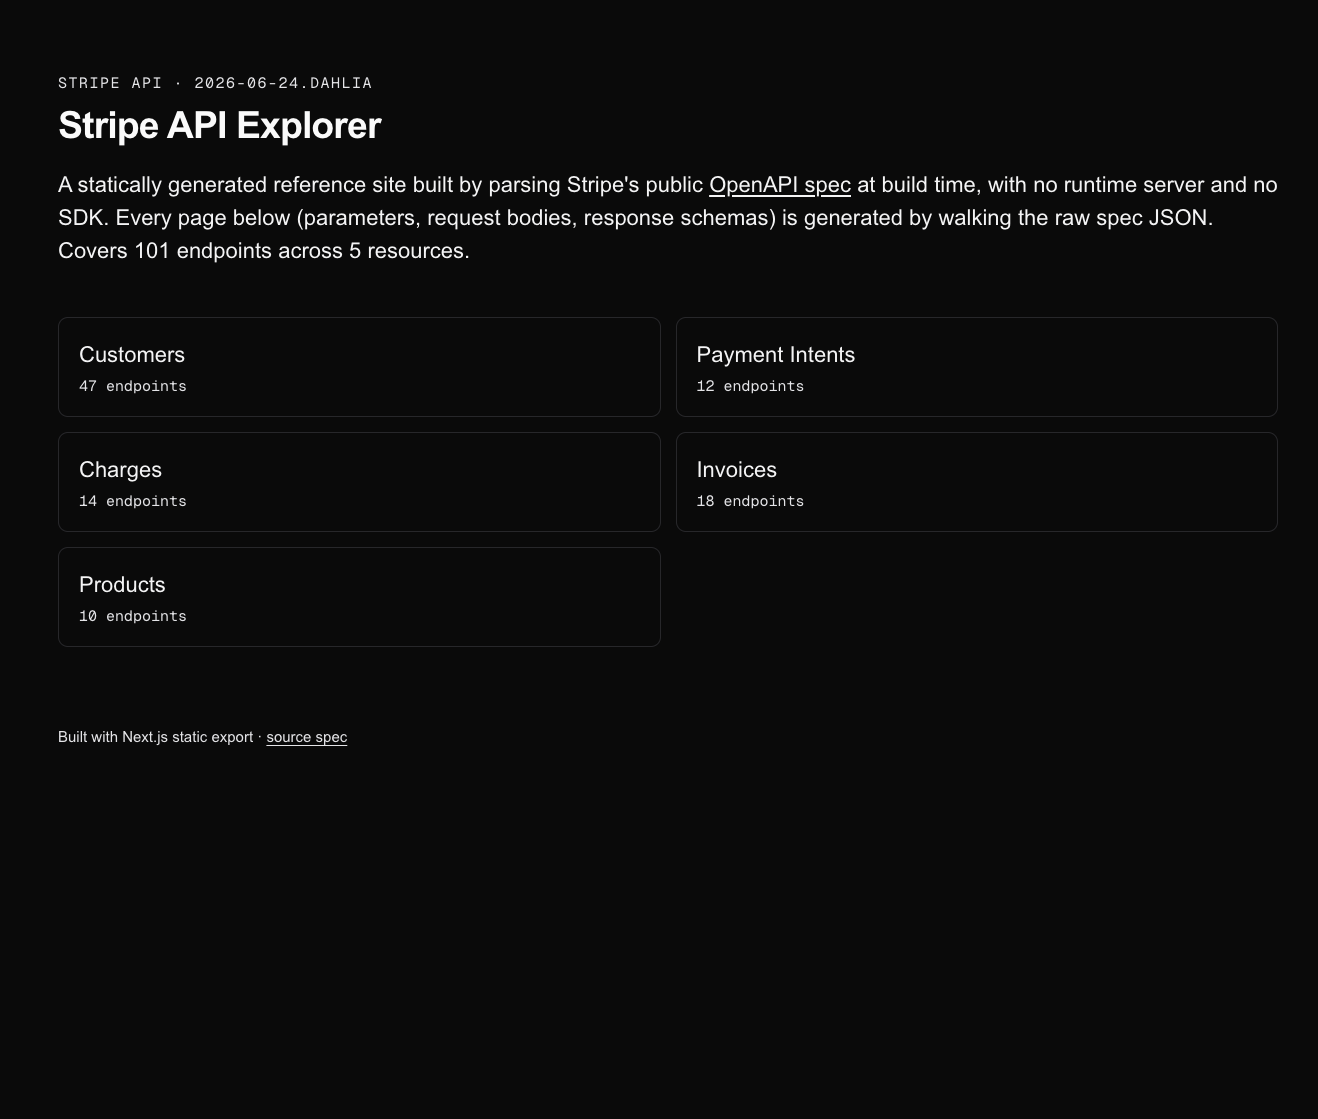
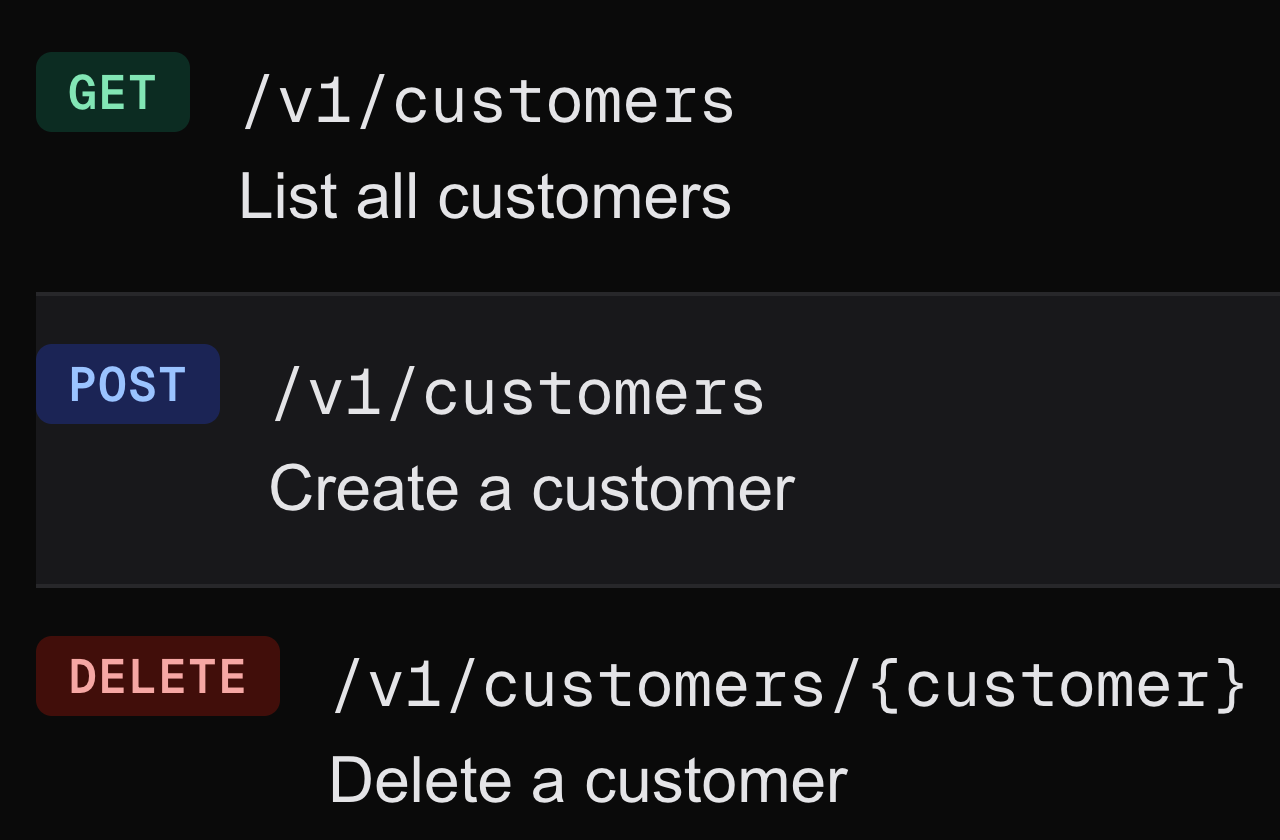
mvp

diff --git a/static/css/style.css b/static/css/style.css
@@ -4,8 +4,8 @@
   --color-text: #1a1a1a;
   --color-text-secondary: #666666;
   --color-border: #e0e0e0;
-  --color-link: #0066cc;
-  --color-link-hover: #0052a3;
+  --color-link: #073b66;
+  --color-link-hover: #03204b;
   --color-tile-bg: #f9f9f9;
 
   --max-width-grid: 1200px;
@@ -51,10 +51,15 @@ a:hover {
 .header {
   background: var(--color-bg);
   border-bottom: 1px solid var(--color-border);
-  padding: 20px 0;
+  padding: 20px 0 0 0;
   position: sticky;
   top: 0;
   z-index: 100;
+}
+
+.header .logo a {
+    font-size: 2rem;
+    padding-left: 0;
 }
 
 .header-content {
@@ -66,6 +71,10 @@ a:hover {
   align-items: center;
 }
 
+.header a {
+  padding: 1rem 2rem;
+  font-size: 1rem;
+}
 .logo {
   font-size: 18px;
   font-weight: 600;
@@ -81,7 +90,7 @@ a:hover {
 
 nav {
   display: flex;
-  gap: 30px;
+  gap: 10px;
 }
 
 nav a {

diff --git a/content/posts/welcome.md b/content/posts/welcome.md
@@ -1,11 +1,30 @@
 +++
 date = '2026-07-03T17:51:04-07:00'
 draft = false
-title = 'Welcome'
-summary = "First post — what this blog is for."
+title = 'Information architecture is the foundation of good documentation'
+summary = ""
 +++
 
-I'm Kapunahele, a docs engineer and technical writer. This is where I'll write about developer documentation,
-open-source contribution, CI/CD, OpenAPI, and working with AI-powered tools like Claude Code.
+Good docs begin with architecture, that is, the invisible structure that determines whether someone can find what they need in the first place.
 
-More soon.
+I've spent over a decade writing technical documentation, for startups, Angular, and Bazel. The pattern holds everywhere: the best-written page in the world is useless if no one can find it, and a merely adequate page becomes (gasp) valuable if it sits exactly where a reader expects it to.
+
+## Discoverability is a design problem, not a search problem
+
+Teams often try to solve discoverability with better search. Search helps, but it's a patch over a deeper issue. The real fix is upstream: decide on your categories, your naming conventions, your hierarchy, and stick to them. If you have to pivot later, that's ok, just be clear and intentional about it.
+
+When a reader lands on any page in your docs, they should be able to predict, roughly, what else exists and where it lives. A "Concepts" section should always mean the same thing. A "Reference" page should always follow the same shape. That predictability is what lets people skim instead of lose time (and patience) hunting.
+
+If you're documenting a product, the company's messaging and positioning, along with the personas that you're writing for must all be very clear. Documentation is a reflection of the product. And in a subtle way it is part of the marketing. If docs are easy to understand and navigate with key points being discoverable, then people will like your product even more.
+
+## Consistent paradigms reduce cognitive load
+
+The same principle applies at the page level. If one guide presents steps as numbered lists and the next presents nearly identical steps as prose paragraphs, the reader has to re-learn how to read your docs every time they switch pages. Pick a paradigm — how you present prerequisites, how you format warnings, how you structure a getting-started guide versus a how-to versus a reference page — and apply it everywhere. The goal is for the *shape* of the documentation to become as familiar as the content itself, so readers spend their attention on the material, not on decoding your formatting choices.
+
+## Code snippets are a promise, not decoration
+
+There's one non-negotiable in my own work: every code snippet in a doc has to actually run. It's tempting to write "illustrative" code that's close enough, especially under deadline pressure. But a snippet with a typo, an outdated API call, or a missing import actively erodes trust. A reader who copies broken code and hits an error will doubt every other snippet in your docs, even the correct ones. Testing snippets is part of what gives the snippet the authority of  documentation rather than a suggestion.
+
+## The throughline
+
+Architecture, consistency, and tested code all point to the same goal of reducing the distance between "I have a question" and "I have a working answer." It's worthwhile work. It's the difference between documentation people tolerate and documentation people trust.

diff --git a/content/about.md b/content/about.md
@@ -1,37 +1,3 @@
 ---
-title: "Portfolio"
+title: "placeholder"
 ---
-
-10 years writing docs for developers — lately that means AI agents, OpenAPI specs, and a dozen JS frameworks.
-
-<div class="tile-grid">
-
-<div class="tile">
-<h3>🗂 Pepa</h3>
-<p>An open-source documentation platform I built and maintain: MDX docs, full-text search, an OpenAPI-powered API reference, and an MCP connector so AI agents like Claude can query the docs directly.</p>
-<div class="tags"><span>MDX</span><span>OpenAPI 3.1</span><span>Scalar</span><span>MCP</span><span>GitHub Actions</span></div>
-</div>
-
-<div class="tile">
-<h3>📄 OpenAPI Explorers</h3>
-<p>Two API reference sites built from scratch by parsing real OpenAPI specs — no Swagger UI or Redoc, just the raw spec rendered into static pages.</p>
-<ul class="project-links">
-<li><strong>GitHub API Explorer</strong> — ~1,200 REST endpoints, grouped by tag &mdash; <a href="https://kapunahelewong.github.io/explore-openapi/">Demo</a> · <a href="https://github.com/kapunahelewong/explore-openapi">Code</a></li>
-<li><strong>Stripe API Explorer</strong> — Next.js, statically generated from Stripe's spec3.json &mdash; <a href="https://kapunahelewong.github.io/stripe-openapi-demo/">Demo</a> · <a href="https://github.com/kapunahelewong/stripe-openapi-demo">Code</a></li>
-</ul>
-<div class="tags"><span>OpenAPI</span><span>Python</span><span>Next.js</span><span>Static export</span></div>
-</div>
-
-<div class="tile">
-<h3>🌱 Open Source</h3>
-<p>Contribute to the Bazel documentation migration and spent years on Angular's official docs — reviewing PRs, mentoring contributors, and shipping 70+ sample apps.</p>
-<div class="tags"><span>Bazel</span><span>Angular</span><span>GitHub</span><span>PR review</span></div>
-</div>
-
-<div class="tile">
-<h3>🧩 A Dozen Frameworks</h3>
-<p>Write and maintain integration docs across React, Next.js, Remix, Vue, Svelte, Qwik, Angular, React Native, and more — spanning two SDK generations.</p>
-<div class="tags"><span>React</span><span>Next.js</span><span>Vue</span><span>Svelte</span><span>Qwik</span><span>Angular</span><span>React Native</span></div>
-</div>
-
-</div>
